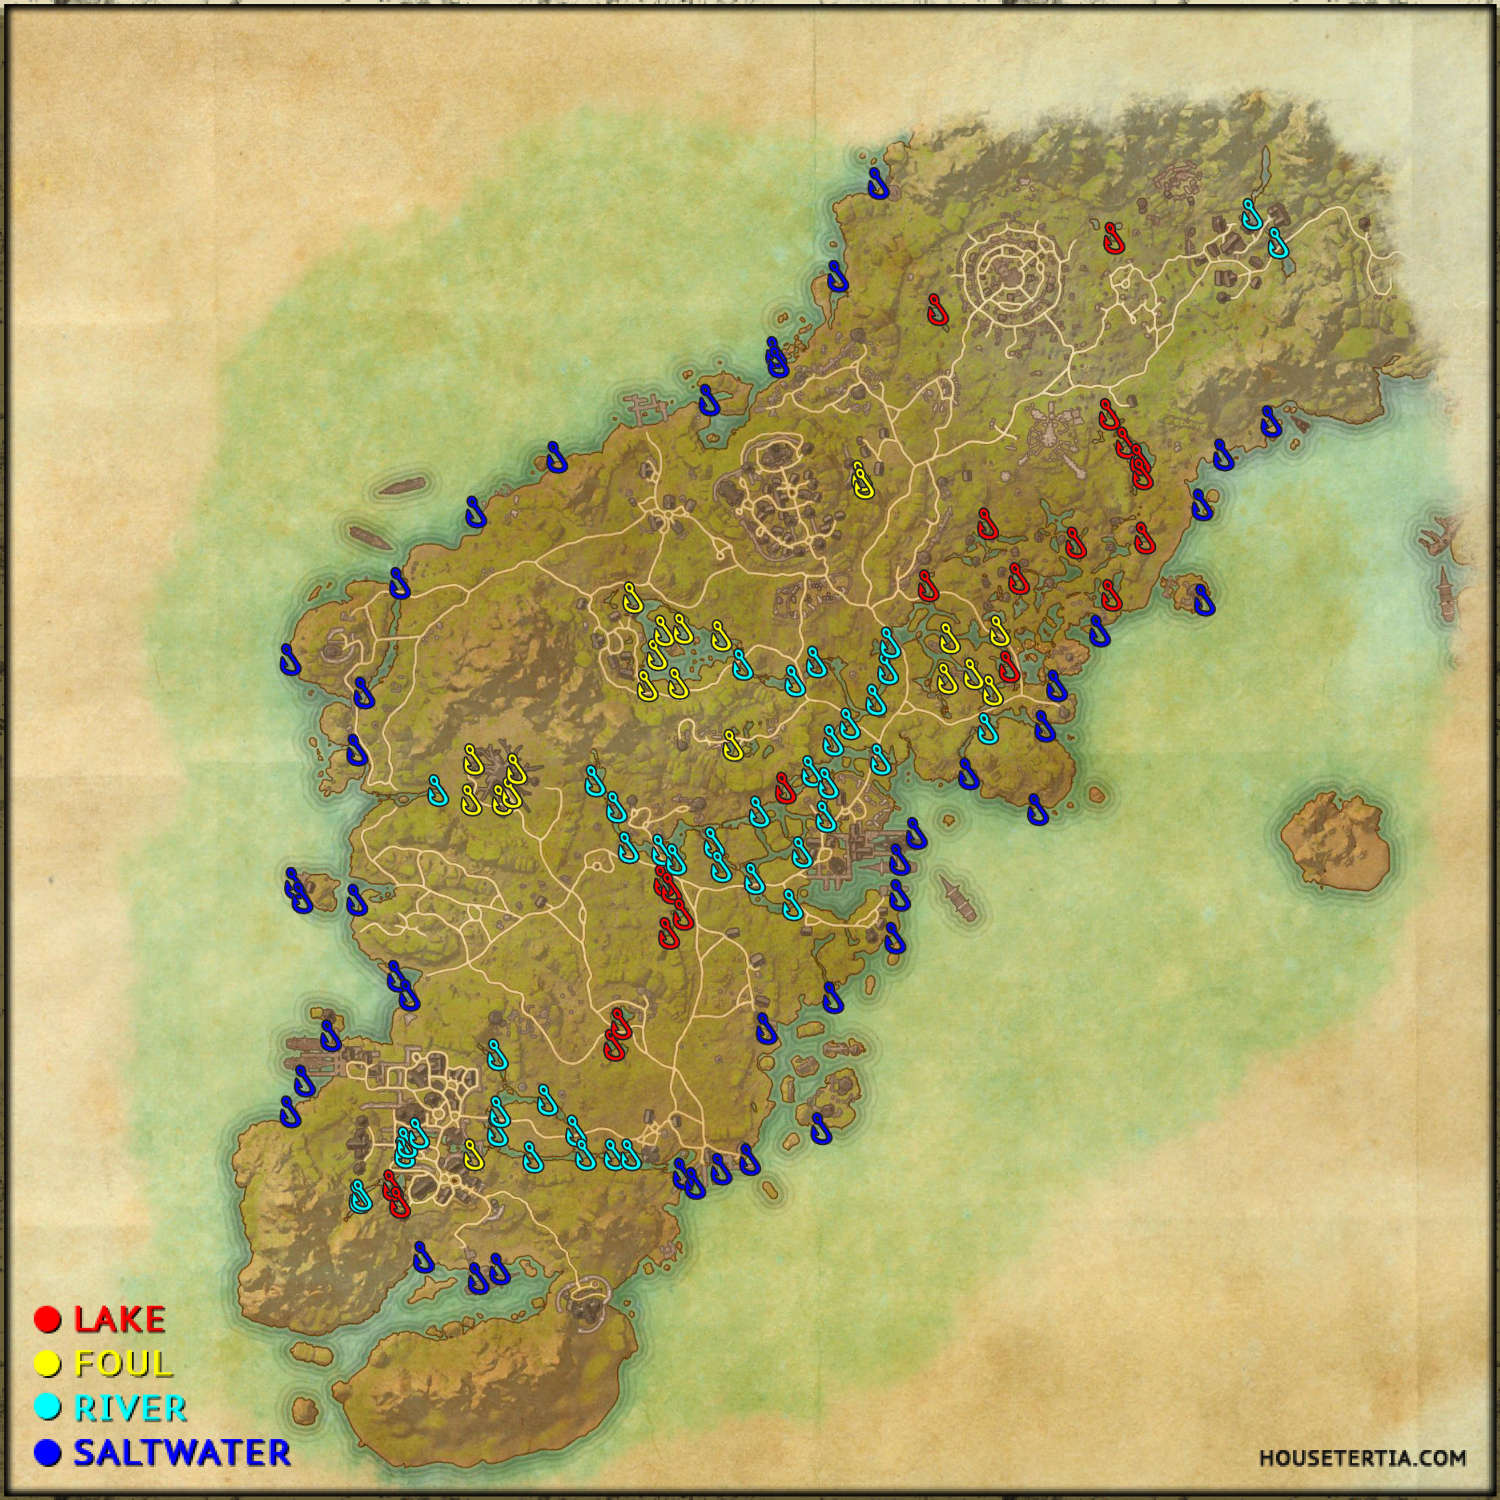
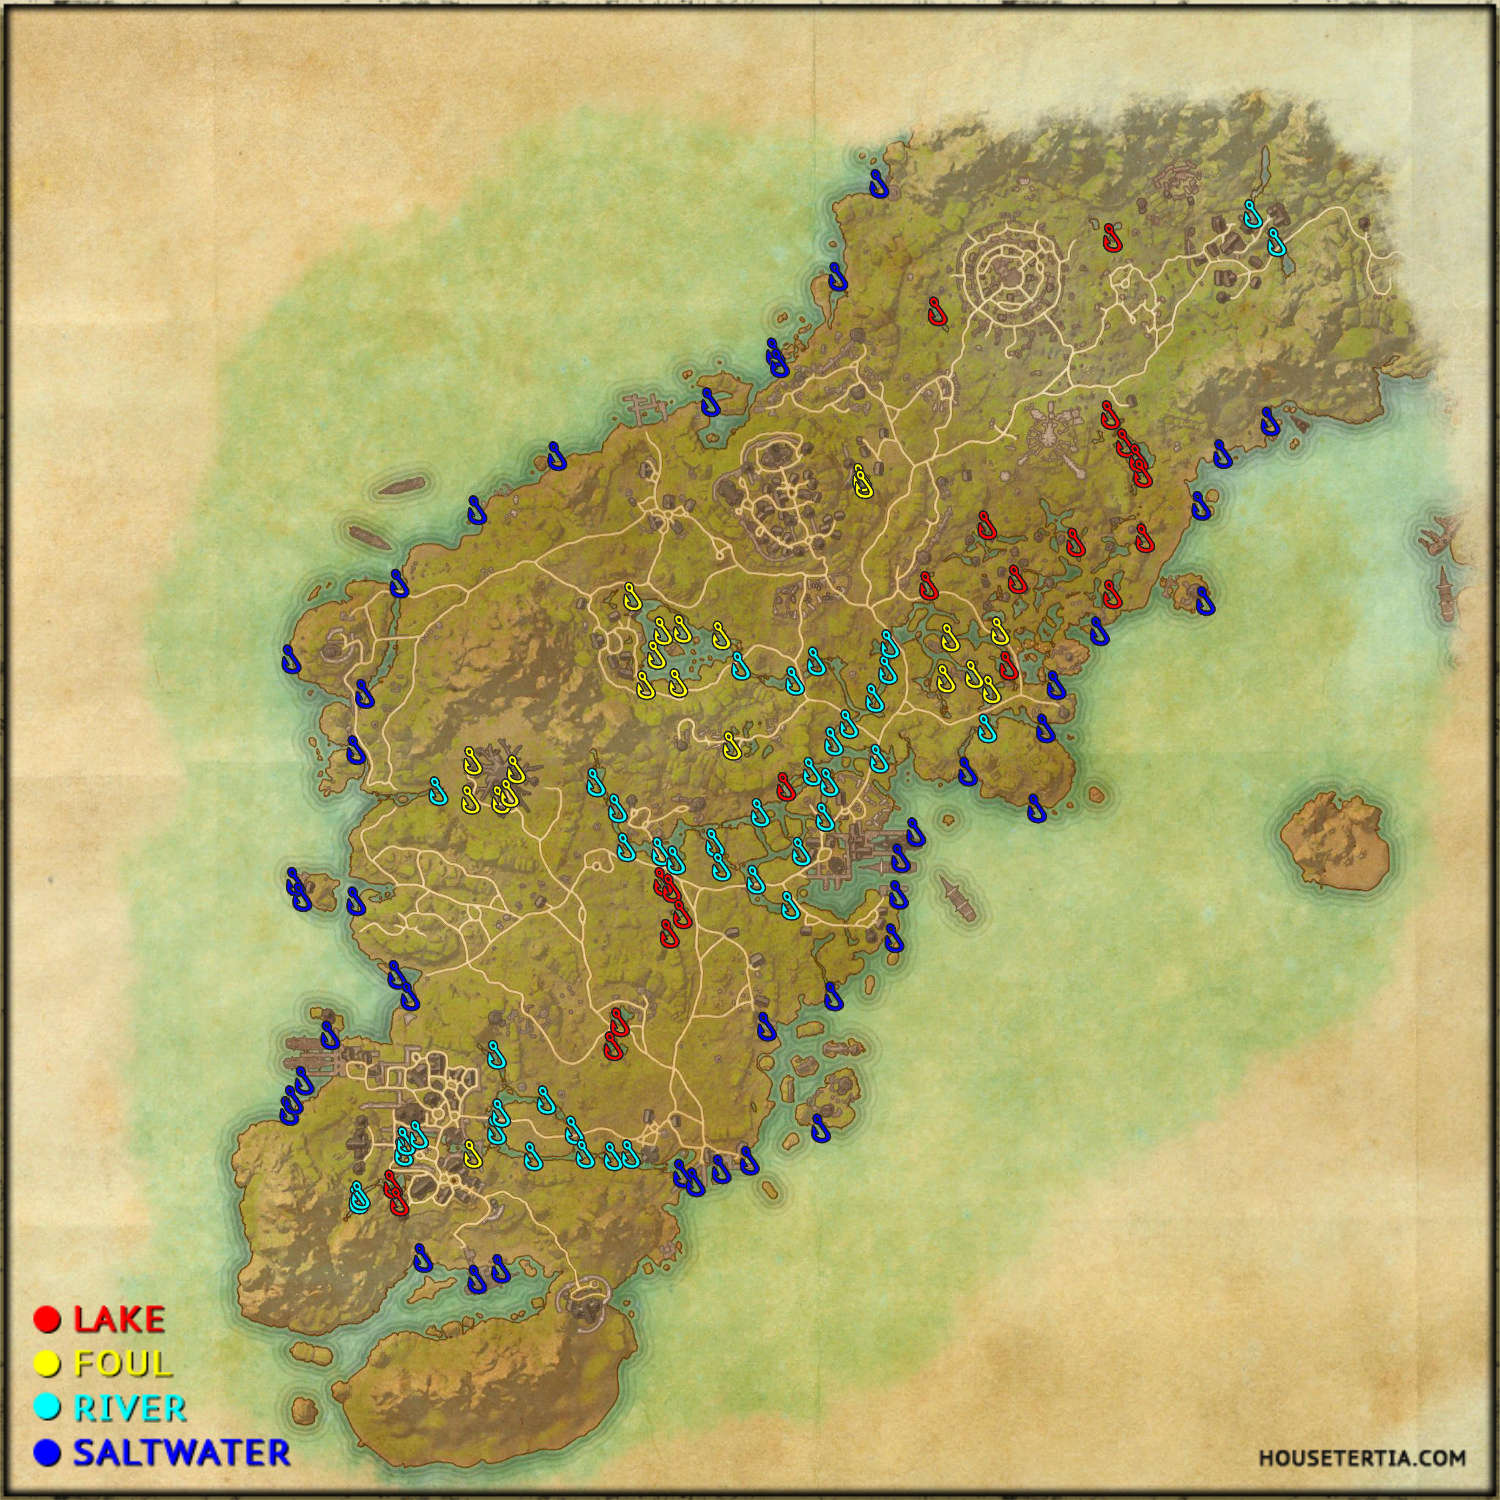
2022-06-16 added high isle zone

diff --git a/map.html b/map.html
@@ -1,5 +1,5 @@
 <div class="map-container">
-  <img id="map-tamriel" class="map-tamriel" src="map-tamriel.png" title="Tamriel Map" alt="Tamriel Map" width="810" height="810" usemap="#map-tamriel" />
+  <img id="map-tamriel" class="map-tamriel" src="map-tamriel-start.jpg" title="Tamriel Map" alt="Tamriel Map" width="810" height="810" usemap="#map-tamriel" />
   <svg class="map-tamriel-svg" width="810" height="810" viewbox="0 0 810 810" xmlns="http://www.w3.org/2000/svg" xmlns:xlink="http://www.w3.org/1999/xlink">
     <a xlink:href="jpg/fishing-auridon.jpg" xlink:title="Auridon">
       <polygon id="auridon" class="area ad" points="124,500,149,484,195,510,221,542,219,553,207,564,208,591,198,612,179,609,153,570,164,547,161,535,142,537" />
@@ -227,6 +227,12 @@
       <circle id="deadlands" class="area dlc" cx="479" cy="728" r="70" />
       <text x="17" y="60" class="dlc" visibility="hidden">Deadlands<tspan x="17" y="90">(DLC & Chapter Zones)</tspan>
         <set attributeName="visibility" from="hidden" to="visible" begin="deadlands.mouseover" end="deadlands.mouseout" />
+      </text>
+    </a>
+    <a xlink:href="jpg/fishing-highisleandamenos.jpg" xlink:title="High Isle And Amenos">
+      <polygon id="highisleandamenos" class="area dlc" points="53,454,73,461,76,479,75,497,51,498,36,487,40,468" />
+      <text x="17" y="60" class="dlc" visibility="hidden">High Isle And Amenos<tspan x="17" y="90">(DLC & Chapter Zones)</tspan>
+        <set attributeName="visibility" from="hidden" to="visible" begin="highisleandamenos.mouseover" end="highisleandamenos.mouseout" />
       </text>
     </a>
   </svg>
